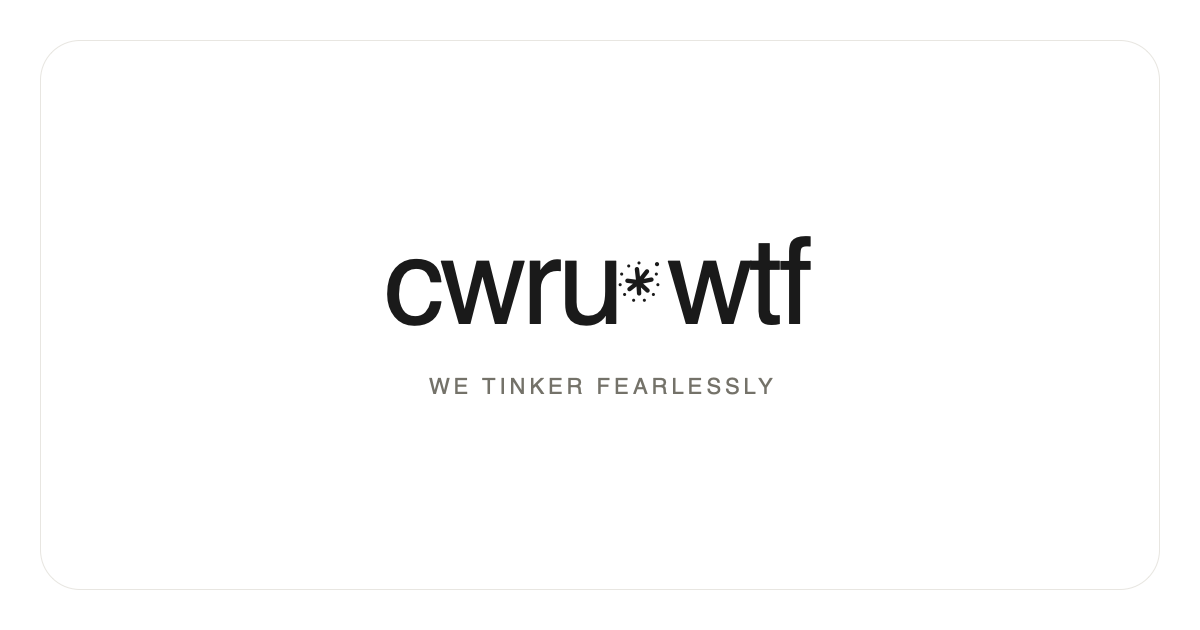
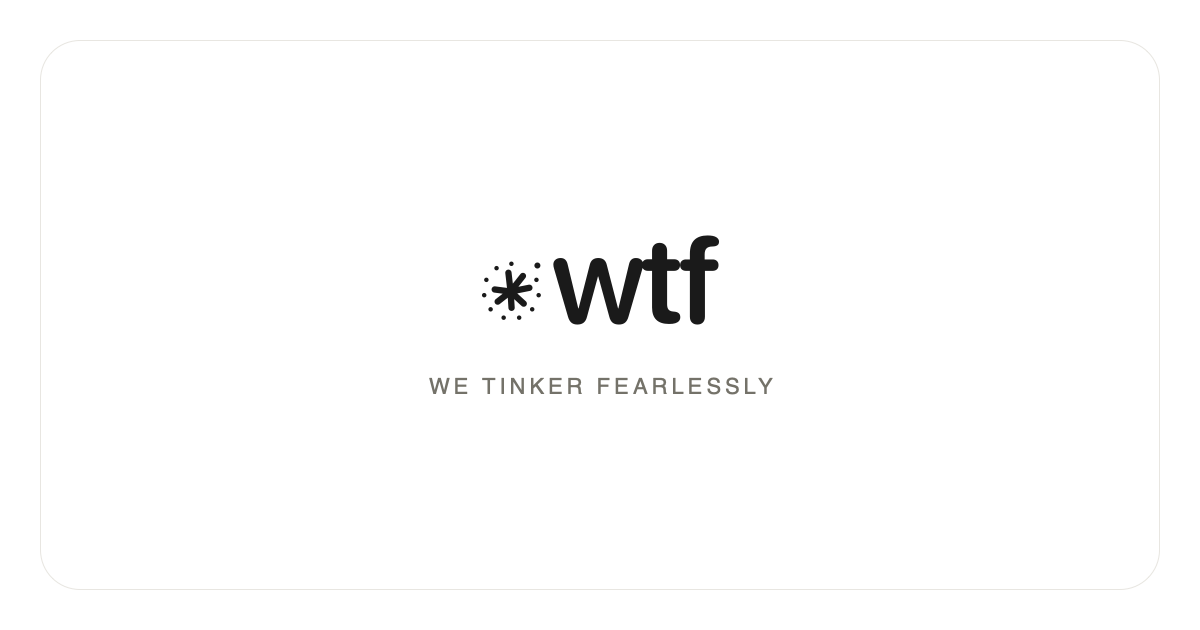
Rebrand the site from CWRU.WTF to dot WTF
The site becomes the general dot WTF home that campus instances will be
created from. The logo is now the burst mark (the "dot") followed by
"wtf", matching the tekID sign-in logo and announced as "dot WTF". The
link preview image is rebuilt from that vector wordmark on the original
card.

Page titles, metadata, labels, messages, the application emails, the
README intros, the CI workflow name, and the event-scheduler emails now
say dot WTF without naming a campus. The site still serves from
cwru.wtf, and CWRU-specific features (the events calendar, application
form, Instagram account, CWRU Games, and CWRU Wordle) are unchanged.

The shorter logo leaves the profile header's home link narrower than a
44px target, so it now has a minimum width.

Changed region(s): [[0.3083, 0.3619, 0.6783, 0.5127]]

diff --git a/apps/cwru-wtf/lib/email-templates.ts b/apps/cwru-wtf/lib/email-templates.ts
@@ -1,12 +1,12 @@
 // Email templates for different submission statuses
 export const emailTemplates = {
   approved: {
-    subject: 'Welcome to cwru.wtf! 🎉',
+    subject: 'Welcome to dot WTF! 🎉',
     html: (name: string) => `
       <div style="font-family: monospace; background-color: #000000; color: #ffffff; padding: 20px;">
-        <h1 style="color: #10B981;">Welcome to <span style="color: #EC4899;">cwru.wtf</span>, ${name}!</h1>
+        <h1 style="color: #10B981;">Welcome to <span style="color: #EC4899;">dot WTF</span>, ${name}!</h1>
         
-        <p>Congratulations! Your application has been approved and you're now officially part of the <strong>cwru.wtf</strong> community.</p>
+        <p>Congratulations! Your application has been approved and you're now officially part of the <strong>dot WTF</strong> community.</p>
         
         <h2 style="color: #10B981;">What's Next?</h2>
         <ul>
@@ -20,19 +20,19 @@ export const emailTemplates = {
         
         <p style="margin-top: 30px;">
           Best,<br>
-          The cwru.wtf Team
+          The dot WTF Team
         </p>
         
         <hr style="border-color: #374151; margin: 30px 0;">
         <p style="color: #6B7280; font-size: 12px;">
-          This email was sent to you because you applied to join cwru.wtf at Case Western Reserve University.
+          This email was sent to you because you applied to join dot WTF.
         </p>
       </div>
     `,
     text: (name: string) => `
-Welcome to cwru.wtf, ${name}!
+Welcome to dot WTF, ${name}!
 
-Congratulations! Your application has been approved and you're now officially part of the cwru.wtf community.
+Congratulations! Your application has been approved and you're now officially part of the dot WTF community.
 
 What's Next?
 - Join our Discord server: [Discord Link]
@@ -43,17 +43,17 @@ What's Next?
 We're excited to see what you'll build with us. Remember: We Tinker Fearlessly!
 
 Best,
-The cwru.wtf Team
+The dot WTF Team
     `
   },
   
   waitlisted: {
-    subject: "You're on the cwru.wtf waitlist",
+    subject: "You're on the dot WTF waitlist",
     html: (name: string) => `
       <div style="font-family: monospace; background-color: #000000; color: #ffffff; padding: 20px;">
-        <h1>You're on the cwru.wtf waitlist, ${name}</h1>
+        <h1>You're on the dot WTF waitlist, ${name}</h1>
         
-        <p>We've added your application to the <strong>cwru.wtf</strong> waitlist.</p>
+        <p>We've added your application to the <strong>dot WTF</strong> waitlist.</p>
         
         <p>We'll keep your application in consideration and reach out if a spot opens. In the meantime:</p>
         <ul>
@@ -66,14 +66,14 @@ The cwru.wtf Team
         
         <p style="margin-top: 30px;">
           Best,<br>
-          The cwru.wtf Team
+          The dot WTF Team
         </p>
       </div>
     `,
     text: (name: string) => `
-You're on the cwru.wtf waitlist, ${name}
+You're on the dot WTF waitlist, ${name}
 
-We've added your application to the cwru.wtf waitlist.
+We've added your application to the dot WTF waitlist.
 
 We'll keep your application in consideration and reach out if a spot opens. In the meantime:
 - Keep building and learning
@@ -83,7 +83,7 @@ We'll keep your application in consideration and reach out if a spot opens. In t
 We're glad you're interested in the maker community, and we hope to see you around campus.
 
 Best,
-The cwru.wtf Team
+The dot WTF Team
     `
   }
 };

diff --git a/apps/cwru-wtf/app/profile/page.tsx b/apps/cwru-wtf/app/profile/page.tsx
@@ -13,7 +13,7 @@ import { signInWithTekid, signOutFromTekid } from "./actions"
 import { ProfileAvatar, ProfileForm, ProfileSubmitButton } from "./profile-controls"
 
 export const metadata: Metadata = {
-  title: "Your profile - CWRU.WTF",
+  title: "Your profile - dot WTF",
   robots: { index: false, follow: false },
 }
 
@@ -48,7 +48,7 @@ export default async function ProfilePage({ searchParams }: {
   return (
     <div className="flex min-h-[100svh] flex-col bg-background text-foreground">
       <header className="mx-auto flex w-full max-w-[1160px] items-center justify-between gap-5 px-6 py-6 sm:py-8">
-        <Link href="/" aria-label="CWRU.WTF home" className="focus-ring inline-flex min-h-11 items-center rounded-lg font-brand text-lg font-semibold">
+        <Link href="/" aria-label="dot WTF home" className="focus-ring inline-flex min-h-11 min-w-11 items-center rounded-lg font-brand text-lg font-semibold">
           <Wordmark />
         </Link>
         <Link href="/" className={secondaryLinkClassName}>Back home</Link>
@@ -117,7 +117,7 @@ export default async function ProfilePage({ searchParams }: {
           <section aria-labelledby="profile-heading" className="w-full py-12 text-center">
             <DeskCat className="mx-auto mb-9 w-44 text-foreground/80" />
             <h1 id="profile-heading" className="font-brand text-page-title">Make yourself at home.</h1>
-            <p className="mx-auto mt-4 max-w-sm text-body text-muted-foreground">Create your profile, tell us what you want to build, and apply to join dot wtf.</p>
+            <p className="mx-auto mt-4 max-w-sm text-body text-muted-foreground">Create your profile, tell us what you want to build, and apply to join dot WTF.</p>
             <form action={signInWithTekid} className="mt-7">
               <ProfileSubmitButton pendingLabel="Continuing to tekID…">Sign in to get started</ProfileSubmitButton>
             </form>

diff --git a/apps/cwru-wtf/app/layout.tsx b/apps/cwru-wtf/app/layout.tsx
@@ -7,17 +7,17 @@ import { Toaster } from "sonner"
 
 export const metadata: Metadata = {
   metadataBase: new URL("https://cwru.wtf"),
-  title: "CWRU.WTF - We Tinker Fearlessly",
-  description: "A collective of CWRU students building the future (or just building cool stuff).",
+  title: "dot WTF - We Tinker Fearlessly",
+  description: "A collective of students building the future (or just building cool stuff).",
   openGraph: {
-    title: "CWRU.WTF - We Tinker Fearlessly",
-    description: "A collective of CWRU students building the future (or just building cool stuff).",
+    title: "dot WTF - We Tinker Fearlessly",
+    description: "A collective of students building the future (or just building cool stuff).",
     type: 'website',
   },
   twitter: {
     card: 'summary_large_image',
-    title: "CWRU.WTF - We Tinker Fearlessly",
-    description: "A collective of CWRU students building the future (or just building cool stuff).",
+    title: "dot WTF - We Tinker Fearlessly",
+    description: "A collective of students building the future (or just building cool stuff).",
   },
 }
 

diff --git a/apps/cwru-wtf/app/members/page.tsx b/apps/cwru-wtf/app/members/page.tsx
@@ -11,7 +11,7 @@ import { TekidProfileContractError } from "@/lib/tekid/profile"
 import MemberGrid from "./member-grid"
 
 export const metadata: Metadata = {
-  title: "Members - CWRU.WTF",
+  title: "Members - dot WTF",
   robots: { index: false, follow: false },
 }
 
@@ -38,7 +38,7 @@ export default async function MembersPage() {
             <Button asChild><a href={tekidMembersPath}>Try again</a></Button>
           </Notice>
         ) : directory.status === "signed-out" ? (
-          <Notice description="Sign in with tekID to see who’s building at CWRU.WTF.">
+          <Notice description="Sign in with tekID to see who’s building at dot WTF.">
             <Button asChild><a href={`/api/tekid/sign-in?returnTo=${tekidMembersPath}`}>Sign in</a></Button>
           </Notice>
         ) : directory.status === "not-member" ? (

diff --git a/apps/cwru-wtf/components/wordmark.tsx b/apps/cwru-wtf/components/wordmark.tsx
@@ -1,10 +1,10 @@
 import BrandExpansionMark from "@/components/brand-expansion-mark"
 
+// The burst mark is the "dot" in dot WTF.
 export default function Wordmark() {
   return (
-    <span aria-label="cwru.wtf" className="whitespace-nowrap" role="img">
-      <span aria-hidden="true">cwru</span>
-      <BrandExpansionMark className="mx-[0.04em] inline-block size-[0.56em] shrink-0" />
+    <span aria-label="dot WTF" className="whitespace-nowrap" role="img">
+      <BrandExpansionMark className="mr-[0.04em] inline-block size-[0.56em] shrink-0" />
       <span aria-hidden="true">wtf</span>
     </span>
   )

diff --git a/apps/cwru-wtf/components/admin/admin-dashboard.tsx b/apps/cwru-wtf/components/admin/admin-dashboard.tsx
@@ -350,7 +350,7 @@ export default function AdminDashboard({
         <div className="mx-auto flex h-14 max-w-[1440px] items-center justify-between gap-4 px-4 sm:px-6 lg:px-8">
           <Link
             href="/"
-            aria-label="Back to CWRU.WTF home"
+            aria-label="Back to dot WTF home"
             className="focus-ring inline-flex min-h-11 items-center gap-3 rounded text-foreground"
           >
             <span translate="no" className="font-brand text-base font-semibold">

diff --git a/apps/cwru-wtf/app/profile/profile-controls.tsx b/apps/cwru-wtf/app/profile/profile-controls.tsx
@@ -205,7 +205,7 @@ async function saveProfileOrKeepInput(previous: ProfileFormState, formData: Form
       fields: profileFieldsFromFormData(formData),
       applicationStatus: previous.applicationStatus,
       memberNumber: previous.memberNumber,
-      message: "We couldn’t reach cwru.wtf. Your answers are still here. Check your connection and try again.",
+      message: "We couldn’t reach dot WTF. Your answers are still here. Check your connection and try again.",
     }
   }
 }

diff --git a/apps/cwru-wtf/app/calendar/page.tsx b/apps/cwru-wtf/app/calendar/page.tsx
@@ -12,8 +12,8 @@ const subscribeUrl = `https://calendar.google.com/calendar/render?cid=${encodeUR
 const icalUrl = `https://calendar.google.com/calendar/ical/${encodeURIComponent(CALENDAR_ID)}/public/basic.ics`
 
 export const metadata: Metadata = {
-  title: "Calendar - CWRU.WTF",
-  description: "Everything CWRU.WTF is running.",
+  title: "Calendar - dot WTF",
+  description: "Everything dot WTF is running.",
 }
 
 export default function CalendarPage() {

diff --git a/apps/cwru-wtf/components/site-nav.tsx b/apps/cwru-wtf/components/site-nav.tsx
@@ -7,12 +7,12 @@ import { TekidProfileContractError } from "@/lib/tekid/profile"
 const socialLinks = [
   {
     href: "https://github.com/teksafari/dot-wtf",
-    label: "CWRU.WTF on GitHub",
+    label: "dot WTF on GitHub",
     icon: Github,
   },
   {
     href: "https://instagram.com/cwru.wtf",
-    label: "CWRU.WTF on Instagram",
+    label: "dot WTF on Instagram",
     icon: Instagram,
   },
 ]

diff --git a/apps/cwru-wtf/app/admin/page.tsx b/apps/cwru-wtf/app/admin/page.tsx
@@ -42,7 +42,7 @@ export default async function AdminPage() {
     return (
       <AdminAccessMessage
         title="Dashboard access is required"
-        description="You’re signed in to tekID. Ask a CWRU.WTF admin to grant you access to this dashboard."
+        description="You’re signed in to tekID. Ask a dot WTF admin to grant you access to this dashboard."
       />
     );
   }

diff --git a/apps/cwru-wtf/components/calendar-embed.tsx b/apps/cwru-wtf/components/calendar-embed.tsx
@@ -78,7 +78,7 @@ export default function CalendarEmbed() {
         <iframe
           key={mode}
           src={embedUrl(mode)}
-          title="CWRU.WTF events calendar"
+          title="dot WTF events calendar"
           onLoad={() => setIsLoading(false)}
           loading="lazy"
           className="block h-[70svh] min-h-[520px] w-full border-0"

diff --git a/wth/event-scheduler/src/messages/wordle/constants.py b/wth/event-scheduler/src/messages/wordle/constants.py
@@ -8,4 +8,4 @@ NOTIFICATIONS_SENDER_EMAIL = os.getenv("NOTIFICATIONS_SENDER_EMAIL")
 GMAIL_SCOPES = ["https://www.googleapis.com/auth/gmail.send", "https://www.googleapis.com/auth/gmail.compose", "https://www.googleapis.com/auth/gmail.settings.basic"]
 GMAIL_API_SECRETS = json.loads(os.getenv("GMAIL_API_SECRETS"))
 NOTIFICATIONS_SENDER_EMAIL= os.getenv("NOTIFICATIONS_SENDER_EMAIL")
-GMAIL_DISPLAY_NAME = "CWRU*WTF"
+GMAIL_DISPLAY_NAME = "dot WTF"
